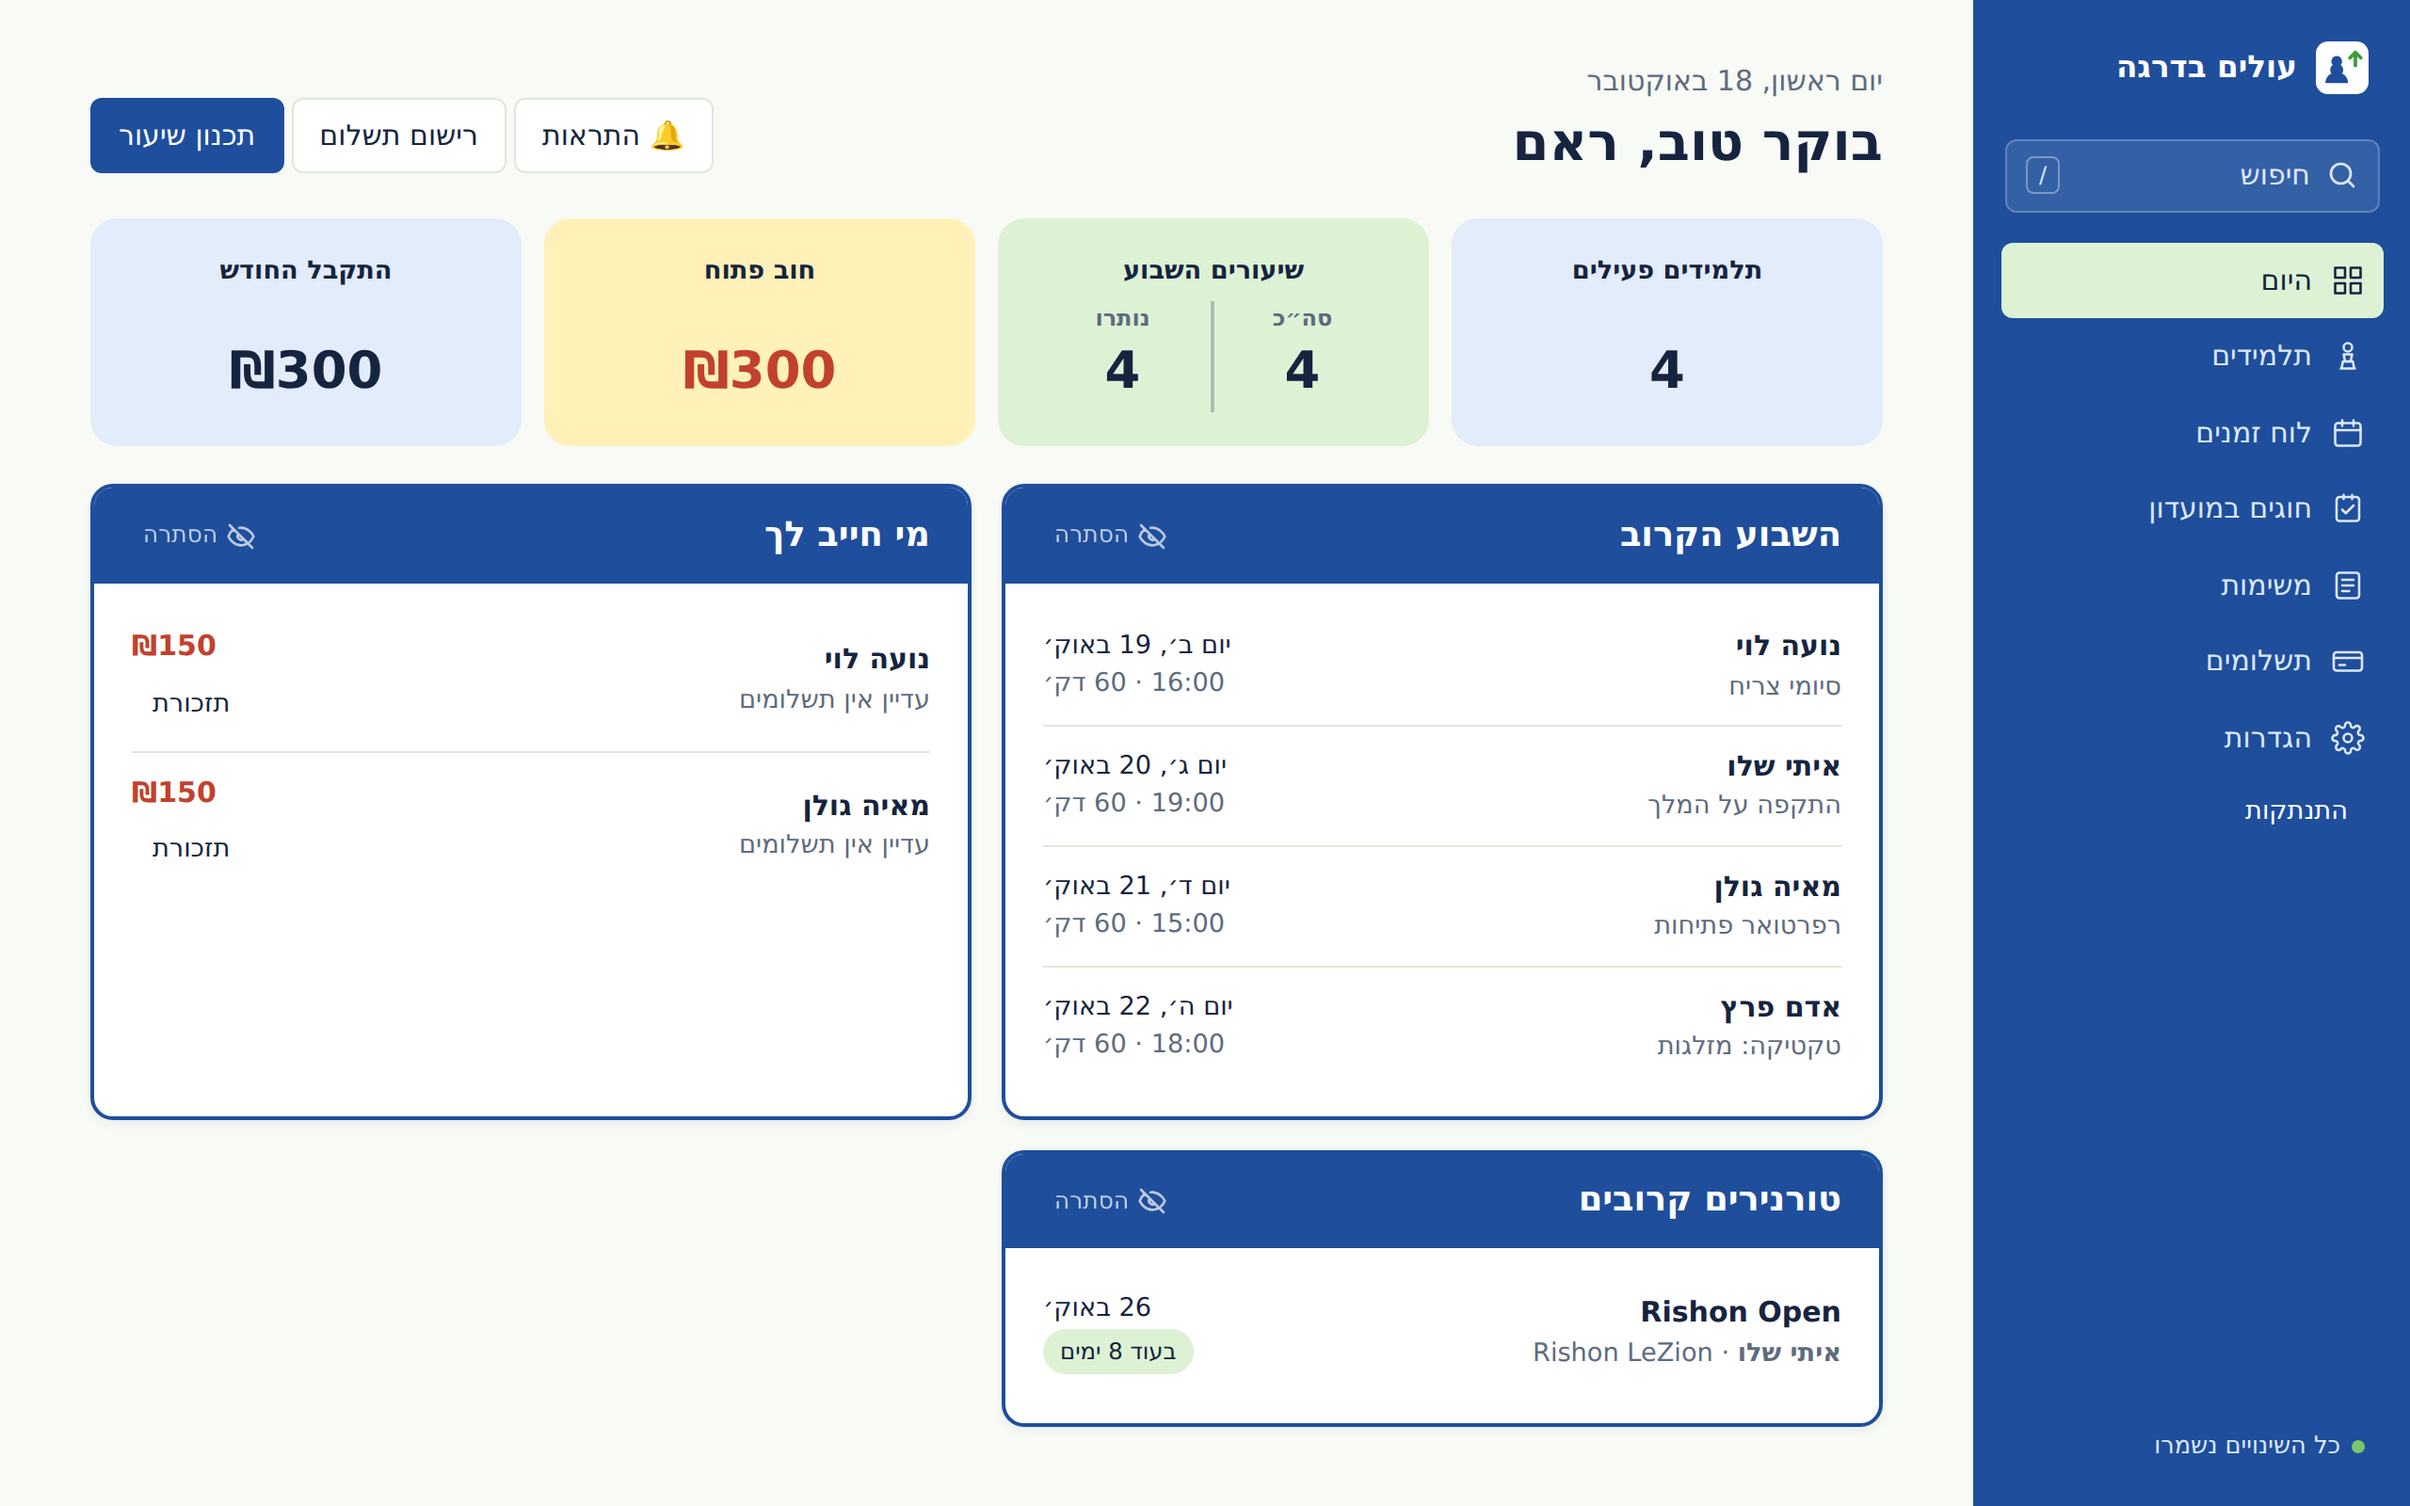
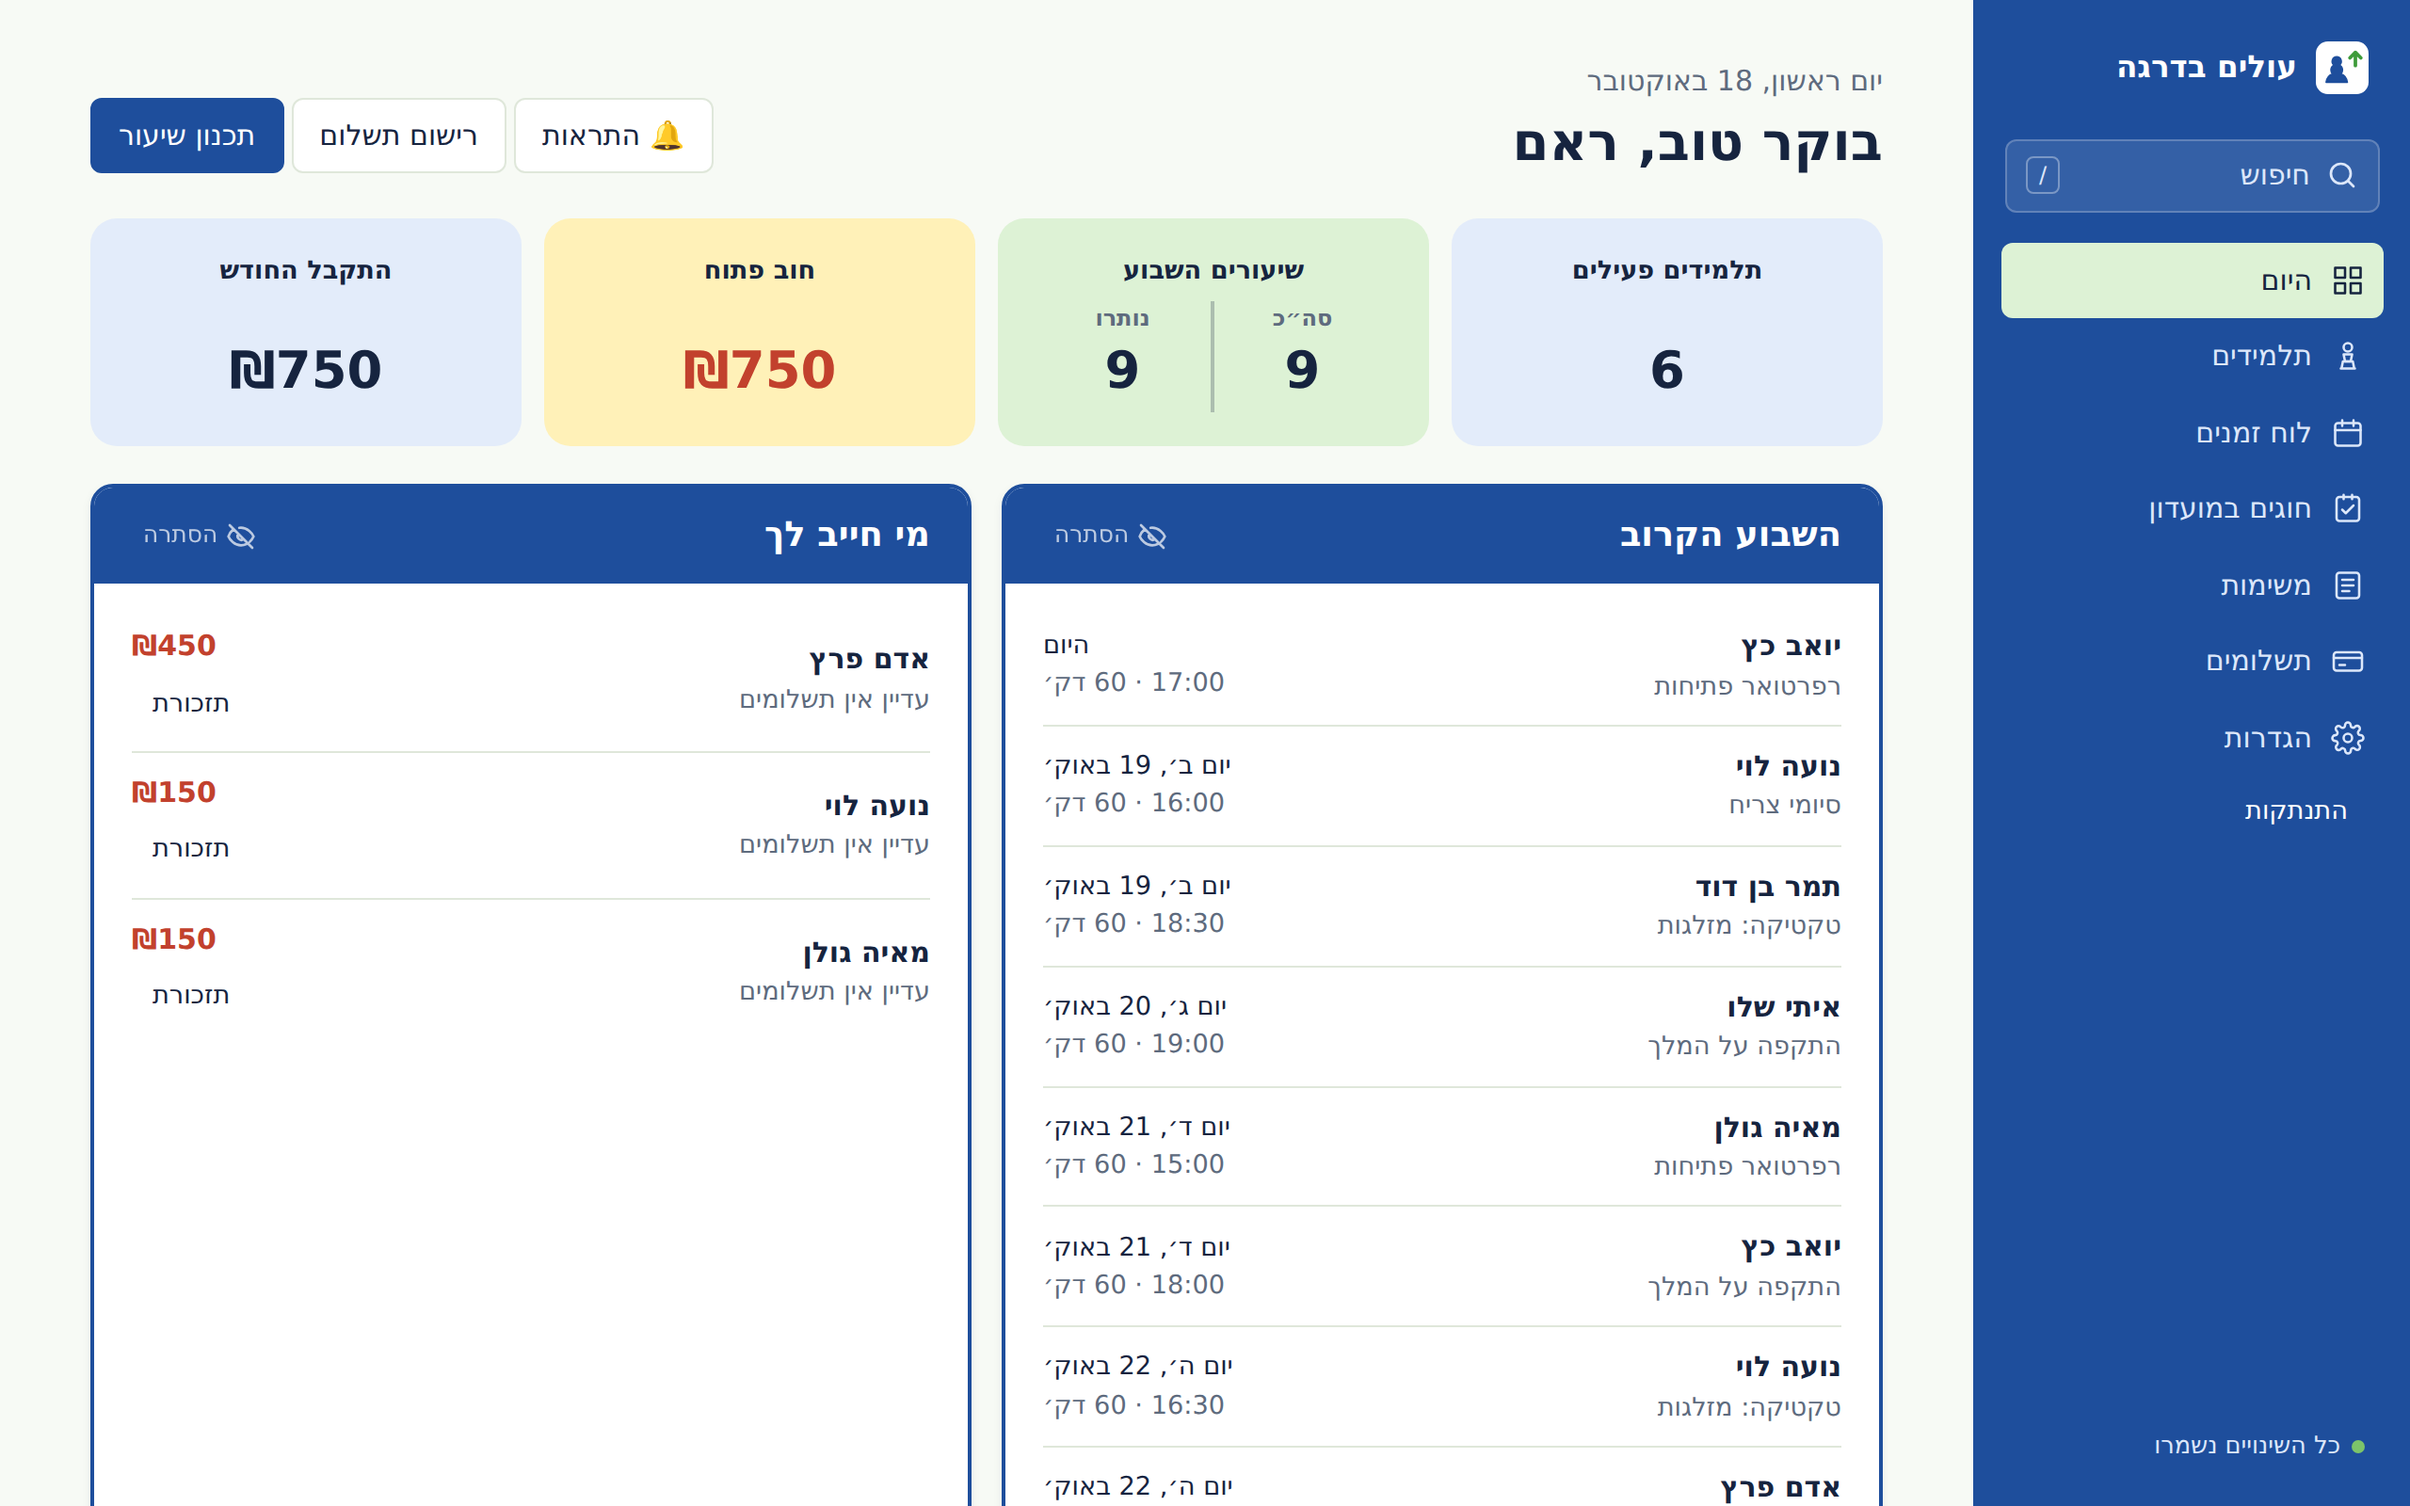
Public page: the student's points show their own screens too; a fuller week for the coach
Claude-Session: https://claude.ai/code/session_014MRjv4gCzUKZuuwYgW78sx

diff --git a/welcome/index.html b/welcome/index.html
@@ -339,8 +339,8 @@ footer .wrap{display:flex;justify-content:space-between;flex-wrap:wrap;gap:12px}
 <section id="who"><div class="wrap">
   <div class="head"><h2 data-t="whoH">אפליקציה אחת - שלושה מסכים</h2><p data-t="whoP">כל אחד רואה בדיוק את מה שהוא צריך — ולא יותר.</p></div>
   <div class="views"><div class="vtabs" role="tablist"><button class="vtab c-blue" id="vt1" role="tab" aria-selected="true" aria-controls="vp1"><span>♚</span><span data-t="w1h">למאמן</span></button><button class="vtab c-green" id="vt2" role="tab" aria-selected="false" aria-controls="vp2"><span>♞</span><span data-t="w2h">לתלמיד</span></button><button class="vtab c-yellow" id="vt3" role="tab" aria-selected="false" aria-controls="vp3"><span>♛</span><span data-t="w3h">להורה</span></button></div>
-    <div class="vpanel c-blue" id="vp1" role="tabpanel" aria-labelledby="vt1"><div class="vtext"><div class="ic">♚</div><h3 data-t="w1h">למאמן</h3><p data-t="w1p">הלוח שמנהל את כל העבודה שלך.</p><ul class="vpicks"><li class="vpick" data-t="w1a" data-i="0" role="button" tabindex="0" aria-pressed="true">התקדמות התלמיד - משימות, תרגול וכושר</li><li class="vpick" data-t="w1b" data-i="1" role="button" tabindex="0" aria-pressed="false">לוח זמנים שבועי - שיעורים, חוגים ותחרויות במקום אחד</li><li class="vpick" data-t="w1c" data-i="2" role="button" tabindex="0" aria-pressed="false">מעקב אחרי התקדמות כלל התלמידים</li><li class="vpick" data-t="w1d" data-i="3" role="button" tabindex="0" aria-pressed="false">מעקב תשלומים ויתרות לכל תלמיד</li></ul><p class="vhint" data-t="vHint">לחצו על שורה כדי לראות את המסך</p></div><div class="vshot"><div class="vdesk"><div class="bar"><i></i><i></i><i></i></div><div class="vimgs" id="coachImgs"><img data-src="app-c1" alt="" class="on"><img data-src="app-c2" alt=""><img data-src="app-students" alt=""><img data-src="app-c4" alt=""></div></div><div class="vnav"><button type="button" class="vstep" data-d="-1" aria-label="previous">‹</button><span class="vdots"><i class="on"></i><i></i><i></i><i></i></span><button type="button" class="vstep" data-d="1" aria-label="next">›</button></div></div></div></div>
-    <div class="vpanel c-green" id="vp2" role="tabpanel" aria-labelledby="vt2" hidden><div class="vtext"><div class="ic">♞</div><h3 data-t="w2h">לתלמיד</h3><p data-t="w2p">כל מה שקשור לשחמט שלו, בטלפון.</p><ul><li data-t="w2a">רישום תרגול, כושר, שינה ומשחקים</li><li data-t="w2b">התקדמות - דירוג ורצפי תרגול</li><li data-t="w2c">לוח זמנים - השיעור הבא, תחרויות ובקשת שיעור</li><li data-t="w2d">משימות מהמאמן</li></ul></div><div class="vshot"><div class="vphone"><img data-src="app-v-student" alt=""></div></div></div>
+    <div class="vpanel c-blue" id="vp1" role="tabpanel" aria-labelledby="vt1"><div class="vtext"><div class="ic">♚</div><h3 data-t="w1h">למאמן</h3><p data-t="w1p">הלוח שמנהל את כל העבודה שלך.</p><ul class="vpicks"><li class="vpick" data-t="w1a" data-i="0" role="button" tabindex="0" aria-pressed="true">התקדמות התלמיד - משימות, תרגול וכושר</li><li class="vpick" data-t="w1b" data-i="1" role="button" tabindex="0" aria-pressed="false">לוח זמנים שבועי - שיעורים, חוגים ותחרויות במקום אחד</li><li class="vpick" data-t="w1c" data-i="2" role="button" tabindex="0" aria-pressed="false">מעקב אחרי התקדמות כלל התלמידים</li><li class="vpick" data-t="w1d" data-i="3" role="button" tabindex="0" aria-pressed="false">מעקב תשלומים ויתרות לכל תלמיד</li></ul><p class="vhint" data-t="vHint">לחצו על שורה כדי לראות את המסך</p></div><div class="vshot"><div class="vdesk"><div class="bar"><i></i><i></i><i></i></div><div class="vimgs"><img data-src="app-c1" alt="" class="on"><img data-src="app-c2" alt=""><img data-src="app-students" alt=""><img data-src="app-c4" alt=""></div></div><div class="vnav"><button type="button" class="vstep" data-d="-1" aria-label="previous">‹</button><span class="vdots"><i class="on"></i><i></i><i></i><i></i></span><button type="button" class="vstep" data-d="1" aria-label="next">›</button></div></div></div></div>
+    <div class="vpanel c-green" id="vp2" role="tabpanel" aria-labelledby="vt2" hidden><div class="vtext"><div class="ic">♞</div><h3 data-t="w2h">לתלמיד</h3><p data-t="w2p">כל מה שקשור לשחמט שלו, בטלפון.</p><ul class="vpicks"><li class="vpick" data-t="w2a" data-i="0" role="button" tabindex="0" aria-pressed="true">רישום תרגול, כושר, שינה ומשחקים</li><li class="vpick" data-t="w2b" data-i="1" role="button" tabindex="0" aria-pressed="false">התקדמות - דירוג ורצפי תרגול</li><li class="vpick" data-t="w2c" data-i="2" role="button" tabindex="0" aria-pressed="false">לוח זמנים - השיעור הבא, תחרויות ובקשת שיעור</li><li class="vpick" data-t="w2d" data-i="3" role="button" tabindex="0" aria-pressed="false">משימות מהמאמן</li></ul><p class="vhint" data-t="vHint">לחצו על שורה כדי לראות את המסך</p></div><div class="vshot"><div class="vphone"><div class="vimgs"><img data-src="app-s1" alt="" class="on"><img data-src="app-s2" alt=""><img data-src="app-s3" alt=""><img data-src="app-s4" alt=""></div></div><div class="vnav"><button type="button" class="vstep" data-d="-1" aria-label="previous">‹</button><span class="vdots"><i class="on"></i><i></i><i></i><i></i></span><button type="button" class="vstep" data-d="1" aria-label="next">›</button></div></div></div></div>
     <div class="vpanel c-yellow" id="vp3" role="tabpanel" aria-labelledby="vt3" hidden><div class="vtext"><div class="ic">♛</div><h3 data-t="w3h">להורה</h3><p data-t="w3p">שקיפות בלי טלפונים מיותרים.</p><ul><li data-t="w3a">לוח זמנים - השיעור הבא, בקשת שיעור, ביטול או הזזה</li><li data-t="w3b">תרגול ומשימות - מה הילד עשה השבוע</li><li data-t="w3c">הערות המאמן אחרי שיעור</li><li data-t="w3d">תשלומים - יתרה, פירוט חשבון ודיווח "שילמתי"</li></ul></div><div class="vshot"><div class="vphone"><img data-src="app-v-parent" alt=""></div></div></div>
   </div>
 </div></section>
@@ -482,11 +482,12 @@ setLang(new URLSearchParams(location.search).get("lang")==="en" ? "en" : "he");
     const n=tabs[(i+d+tabs.length)%tabs.length]; pick(n); n.focus(); }); });
   pick(tabs[0]); })();
 
-/* the coach's four points, each with its own screen */
-(()=>{ const picks=[...document.querySelectorAll(".vpick")], imgs=[...document.querySelectorAll("#coachImgs img")], dots=[...document.querySelectorAll(".vdots i")]; let cur=0;
+/* each view's points, each with its own screen */
+document.querySelectorAll(".vpanel").forEach(panel=>{ const picks=[...panel.querySelectorAll(".vpick")], imgs=[...panel.querySelectorAll(".vimgs img")], dots=[...panel.querySelectorAll(".vdots i")]; let cur=0;
+  if (!picks.length) return;
   const go=i=>{ cur=(i+picks.length)%picks.length; picks.forEach((p,j)=>p.setAttribute("aria-pressed", String(j===cur))); imgs.forEach((m,j)=>m.classList.toggle("on", j===cur)); dots.forEach((d,j)=>d.classList.toggle("on", j===cur)); };
   picks.forEach((p,i)=>{ p.addEventListener("click", ()=>go(i)); p.addEventListener("keydown", e=>{ if (e.key==="Enter"||e.key===" "){ e.preventDefault(); go(i); } }); });
-  document.querySelectorAll(".vstep").forEach(b=>b.addEventListener("click", ()=>go(cur + +b.dataset.d))); })();
+  panel.querySelectorAll(".vstep").forEach(b=>b.addEventListener("click", ()=>go(cur + +b.dataset.d))); });
 
 /* the day-in-the-life demo: steps advance every 4.5s; clicking a step jumps to it and pauses */
 (()=>{
